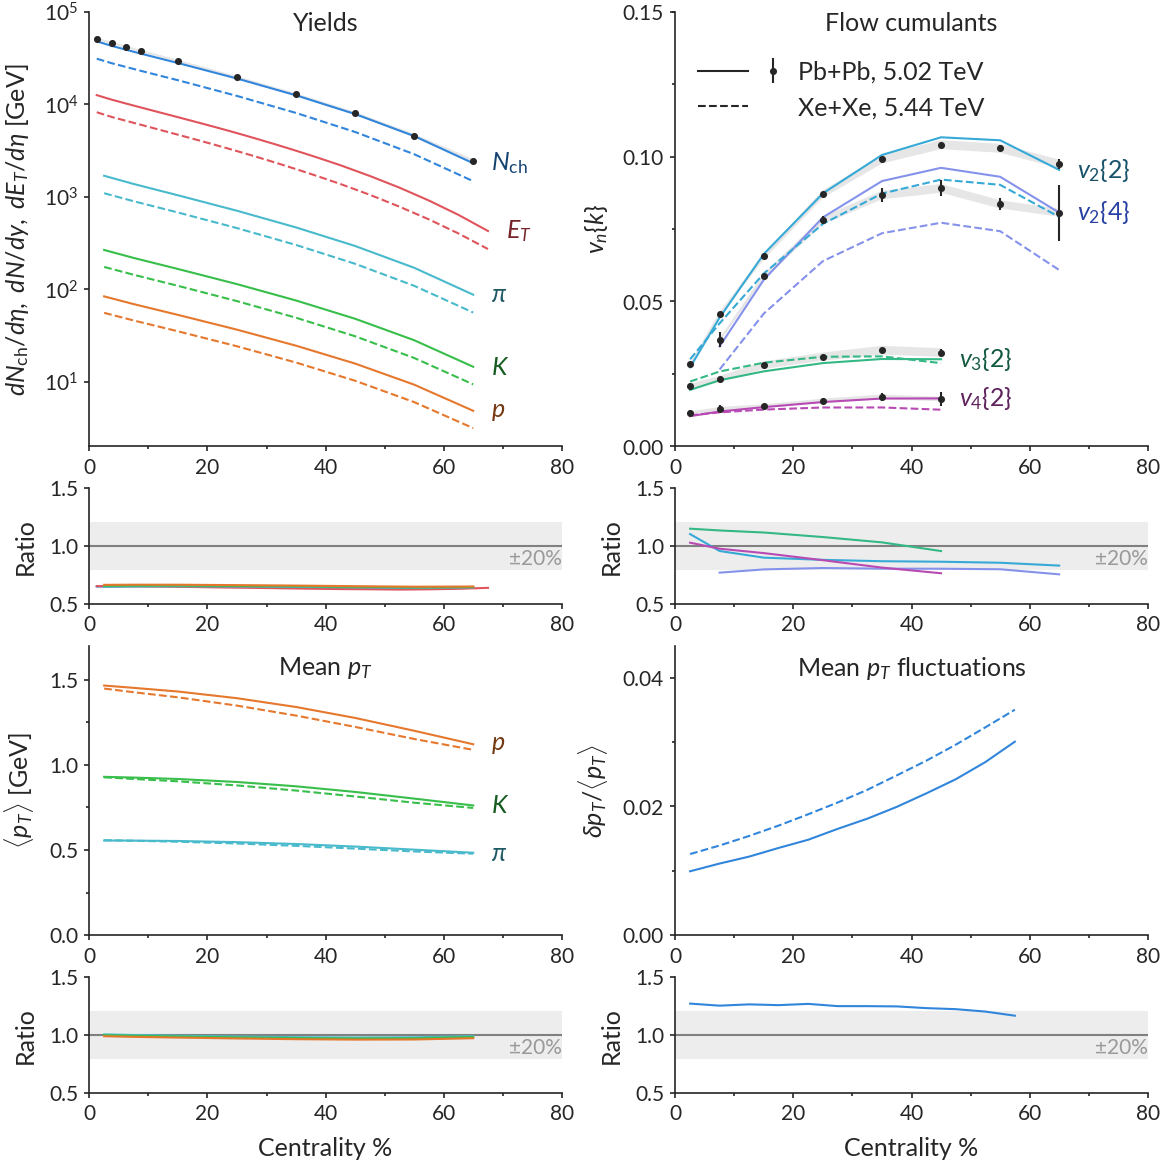
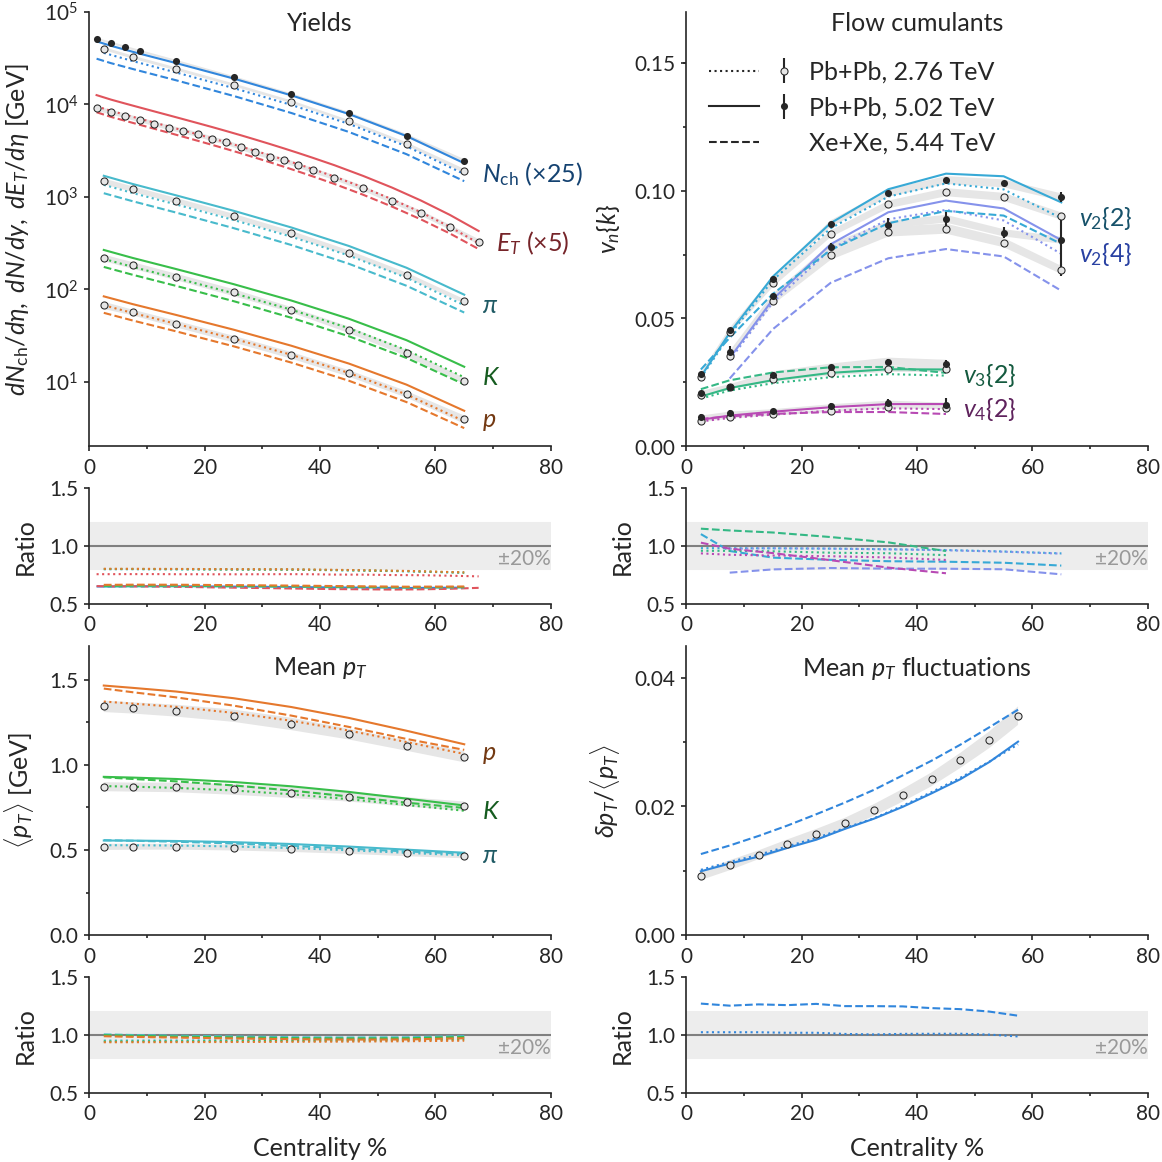
Add Pb-Pb 2.76 TeV model results

diff --git a/src/plots.py b/src/plots.py
@@ -285,11 +285,11 @@ def observables_map():
 
     """
     plots = _observables_plots()
-    systems = 'PbPb5020', 'XeXe5440'
+    systems = ['PbPb2760', 'PbPb5020', 'XeXe5440']
 
     ylim = {
         'Yields': (2, 1e5),
-        'Flow cumulants': (0, .15),
+        'Flow cumulants': (0, .17),
         'Mean $p_T$': (0, 1.7),
         'Mean $p_T$ fluctuations': (0, .045),
     }
@@ -332,8 +332,9 @@ def observables_map():
             scale = opts.get('scale')
 
             linestyle, fill_markers = {
+                'PbPb2760': ('dotted', False),
                 'PbPb5020': ('solid', True),
-                'XeXe5440': ('dashed', False),
+                'XeXe5440': ('dashed', None),
             }[system]
 
             x = model.map_data[system][obs][subobs]['x']
@@ -347,9 +348,10 @@ def observables_map():
                 lines.Line2D([], [], color=offblack, ls=linestyle)
 
             if 'label' in opts and (obs, subobs) not in labels:
+                scale_lbl = r'$(\times{})$'.format(scale) if scale else ''
                 labels[obs, subobs] = ax.text(
                     x[-1] + 3, y[-1],
-                    opts['label'],
+                    ' '.join([opts['label'], scale_lbl]),
                     color=darken(color), ha='left', va='center'
                 )
 
@@ -385,16 +387,22 @@ def observables_map():
             )
 
         for obs, subobs, opts in plot['subplots']:
-            x_pbpb, y_pbpb, x_xexe, y_xexe = [
-                    model.map_data[sys][obs][subobs][var]
-                    for (sys, var) in itertools.product(systems, ['x', 'Y'])
-                    ]
+            x_denom, y_denom = [
+                model.map_data['PbPb5020'][obs][subobs][var] for var in ('x', 'Y')
+            ]
 
             color = obs_color(obs, subobs)
-            try:
-                ratio_ax.plot(x_pbpb, y_xexe/y_pbpb, color=color)
-            except:
-                pass
+
+            for sys, style in [('PbPb2760', 'dotted'), ('XeXe5440', 'dashed')]:
+                x_num, y_num = [
+                        model.map_data[sys][obs][subobs][var]
+                        for var in ['x', 'Y']
+                        ]
+
+                try:
+                    ratio_ax.plot(x_denom, y_num/y_denom, ls=style, color=color)
+                except:
+                    pass
 
         if plot.get('yscale') == 'log':
             ax.set_yscale('log')
@@ -415,13 +423,13 @@ def observables_map():
         empty = patches.Rectangle(
             (0,0), 1, 1, fill=False, edgecolor='none', visible=False
         )
-        expt_handles = [handles['expt']['PbPb5020'], empty]
+        expt_handles = [handles['expt'][s] for s in systems[:-1]] + [empty]
         model_handles = [handles['model'][s] for s in systems]
 
         if plot.get('legend'):
             ax.legend(
                 model_handles + expt_handles,
-                ['', '', 'Pb+Pb, 5.02 TeV', 'Xe+Xe, 5.44 TeV'],
+                ['', '', '', 'Pb+Pb, 2.76 TeV', 'Pb+Pb, 5.02 TeV', 'Xe+Xe, 5.44 TeV'],
                 ncol=2, loc='upper left', bbox_to_anchor=(0, .94),
                 columnspacing=0, handletextpad=0
             )
@@ -443,7 +451,7 @@ def observables_map():
             size=plt.rcParams['xtick.labelsize']
         )
 
-    set_tight(fig)
+    set_tight(fig, w_pad=1)
 
 
 def cross_section_fit(x):
@@ -740,6 +748,7 @@ if __name__ == '__main__':
         'PbPb5440.init',
         'PbPb5020.alice',
         'XeXe5440.alice',
+        'PbPb2760.dat',
         'PbPb5020.dat',
         'XeXe5440.dat',
     ]
